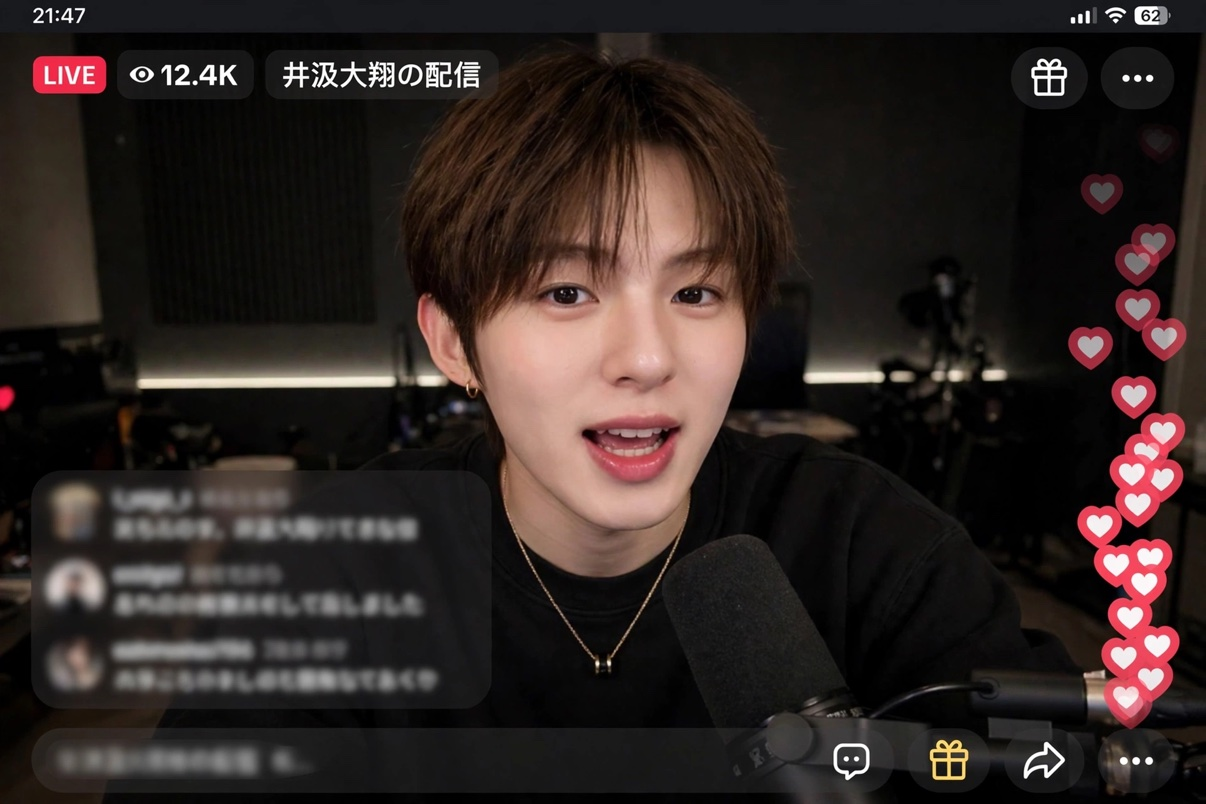
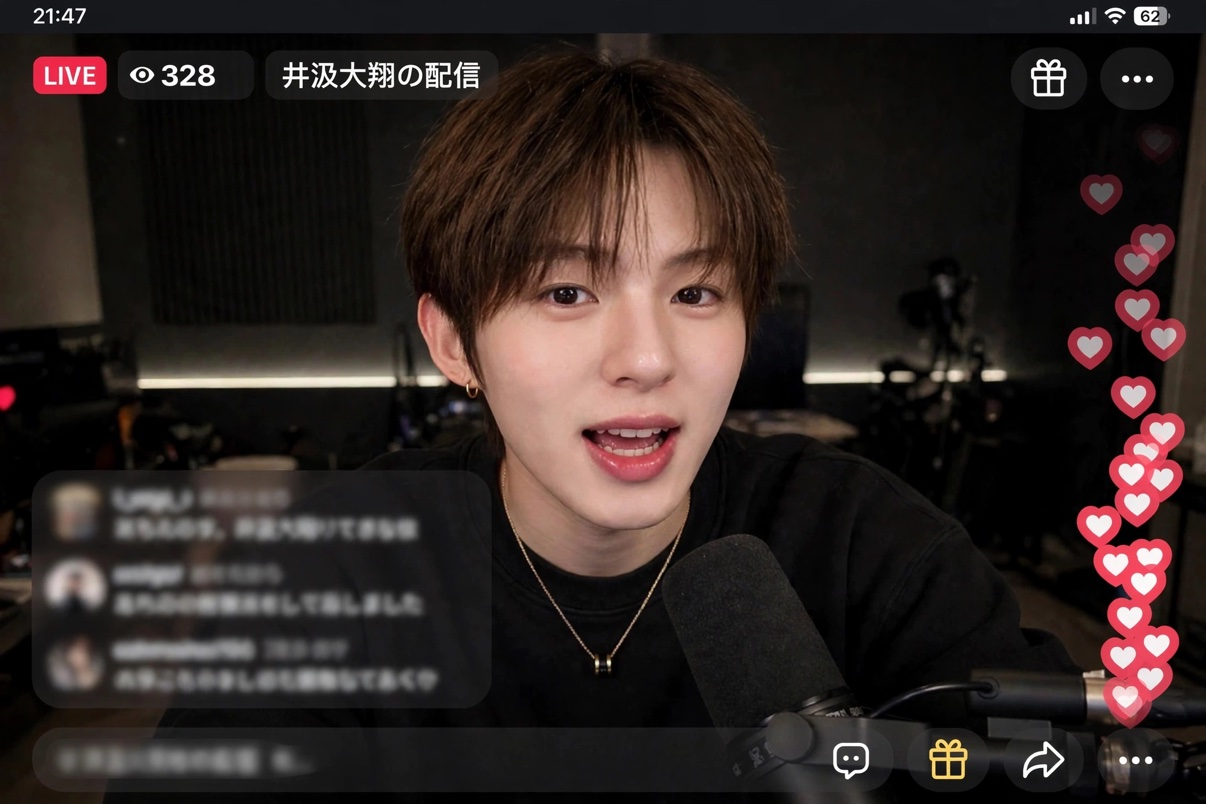
v366: replace his stream-capture asset with the corrected version (viewer count 12.4K -> 328, matching his scale); photo re-request list now fully consumed

diff --git a/index.html b/index.html
@@ -2839,7 +2839,7 @@ input,textarea{font-size:16px}
   <button class="btn ghost hidden" id="btn-continue">つづきから →</button>
   <button class="btn ghost hidden" id="btn-reset0">最初から（セーブ削除）</button>
   <div class="t-ticker" aria-hidden="true"><div class="t-ticker-in"><span>10年越しのデビュー。<i>◆</i>バズるか、炎上するか。<i>◆</i>あの人と、同じステージへ。<i>◆</i>二人だけの秘密。<i>◆</i>6日間の物語。<i>◆</i></span><span>10年越しのデビュー。<i>◆</i>バズるか、炎上するか。<i>◆</i>あの人と、同じステージへ。<i>◆</i>二人だけの秘密。<i>◆</i>6日間の物語。<i>◆</i></span></div></div>
-  <p class="ver">v365</p>
+  <p class="ver">v366</p>
 </section>
 
 <section class="screen intro" id="scr-world" style="--bgimg:url(assets/ig-gen-stage.jpg)">
@@ -3013,7 +3013,7 @@ input,textarea{font-size:16px}
       <div class="setwrap">
         <div class="me-seclab">設定 ― SETTINGS</div>
         <div class="setpanel">
-          <div class="setrow"><span class="set-ic" style="--c:#7856ff"><svg viewBox="0 0 24 24"><path d="M12 2a10 10 0 1 0 0 20 10 10 0 0 0 0-20zm-1.2 9.2h2.4V18h-2.4v-6.8zM12 5.4a1.5 1.5 0 1 1 0 3 1.5 1.5 0 0 1 0-3z"/></svg></span><div class="set-main"><b>デビューしたら、彼と同じステージの件</b><small>Status風Xゲーム ― 6日間の物語</small></div><span class="set-ver">v365</span></div>
+          <div class="setrow"><span class="set-ic" style="--c:#7856ff"><svg viewBox="0 0 24 24"><path d="M12 2a10 10 0 1 0 0 20 10 10 0 0 0 0-20zm-1.2 9.2h2.4V18h-2.4v-6.8zM12 5.4a1.5 1.5 0 1 1 0 3 1.5 1.5 0 0 1 0-3z"/></svg></span><div class="set-main"><b>デビューしたら、彼と同じステージの件</b><small>Status風Xゲーム ― 6日間の物語</small></div><span class="set-ver">v366</span></div>
           <div class="setrow set-savehead"><span class="set-ic" style="--c:#1d9bf0"><svg viewBox="0 0 24 24"><path d="M5 3h11.2L21 7.8V20a1 1 0 0 1-1 1H5a1 1 0 0 1-1-1V4a1 1 0 0 1 1-1zm3.2.8v4.4h7.6V3.8H8.2zM12 20a3.8 3.8 0 1 0 0-7.6 3.8 3.8 0 0 0 0 7.6z"/></svg></span><div class="set-main"><b>セーブデータ</b><small>進行は自動で保存されるよ</small></div><span class="set-auto"><i></i>自動セーブ</span></div>
           <div class="set-savecard">
             <div class="ssv-grid">
@@ -3282,7 +3282,7 @@ input,textarea{font-size:16px}
       <button class="btn ghost" id="btn-totitle" type="button">タイトルへ戻る</button>
     </div>
     <button class="btn" id="btn-restart">もう一度はじめる</button>
-    <p class="ver">v365</p>
+    <p class="ver">v366</p>
   </div>
 </section>
 </div>

diff --git a/hidden_files/polish-checkpoint.md b/hidden_files/polish-checkpoint.md
@@ -2057,7 +2057,7 @@
 - 検証：Playwright実駆動でサクヤ編Day5のDM2スレッドを実際に開き、選択肢3が「今度は私が、何か置いとくね」と表示されることを確認、エラー0
 
 ## 本人への依頼リスト（写真の作り直し）
-- **gen-hiroto-live.jpg（彼の配信画面キャプチャ）**：画面内の視聴者数「12.4K」が彼の規模（Xフォロワー4,379人・古参の小さなファンダム）と合わない。写真は本人の生成物のため、コード側では差し替えない。依頼：同じキャプチャで、視聴者数を彼の規模（数百）にした版を1点
+- ~~**gen-hiroto-live.jpg（彼の配信画面キャプチャ）**：画面内の視聴者数「12.4K」が彼の規模（Xフォロワー4,379人・古参の小さなファンダム）と合わない。写真は本人の生成物のため、コード側では差し替えない。依頼：同じキャプチャで、視聴者数を彼の規模（数百）にした版を1点~~ → **消化済み（v366）**：視聴者数を328にした修正版が届き、アセットごと差し替え完了。依頼リストの残件はなし
 
 ## v361（2026-11-15）Day7の整合点検＋呼称2件の是正
 本人の委任（「好きにして」）で、Day7（v356・v357）を確定前提と突き合わせた：
@@ -2102,3 +2102,9 @@
 - **点検して整合を確認したもの**：彼女が日プで彼を知っていたのは彼女側の認識（会見の「憧れ」回答・プレイリスト等）として維持。Day3 Eventの配信切り抜きで彼が彼女を「知り合い」と呼ぶのは紹介で知り合った関係と整合。彼女の選択肢「知り合いの練習生仲間に様子を聞く」は共通の練習生仲間の存在と整合。旧い表現「知り合いを介して」は全域0件
 - 照合：fx194・img79・cond81・BUZZキー111 完全一致（本文のみの変更）
 - 検証：Playwright実駆動で定数（cardD／FOL_BIO／DM1／DM3）の新文面を確認し、ひろと編を開始して1日進めてエラー0
+
+## v366（2026-11-15）彼の配信キャプチャを修正版に差し替え（依頼リスト消化）
+本人が生成して届けた修正版（視聴者数 12.4K → 328、他は同一・1206×804）で、assets/gen-hiroto-live.jpg をアセットごと差し替えた（md5が届いたファイルと一致することを確認）。参照は BUZZ h-f12 の1件のみで、ファイル名は不変のためコード側の変更は版数表示だけ：
+- チェックポイントの「本人への依頼リスト」は、この件を消化済みに更新（残件なし）
+- 照合：fx194・img79・cond81・BUZZキー111 完全一致
+- 検証：Playwright実駆動で差し替え後のアセットが読み込めること（naturalWidth=1206）と、ひろと編の起動・Day1進行でエラー0を確認
